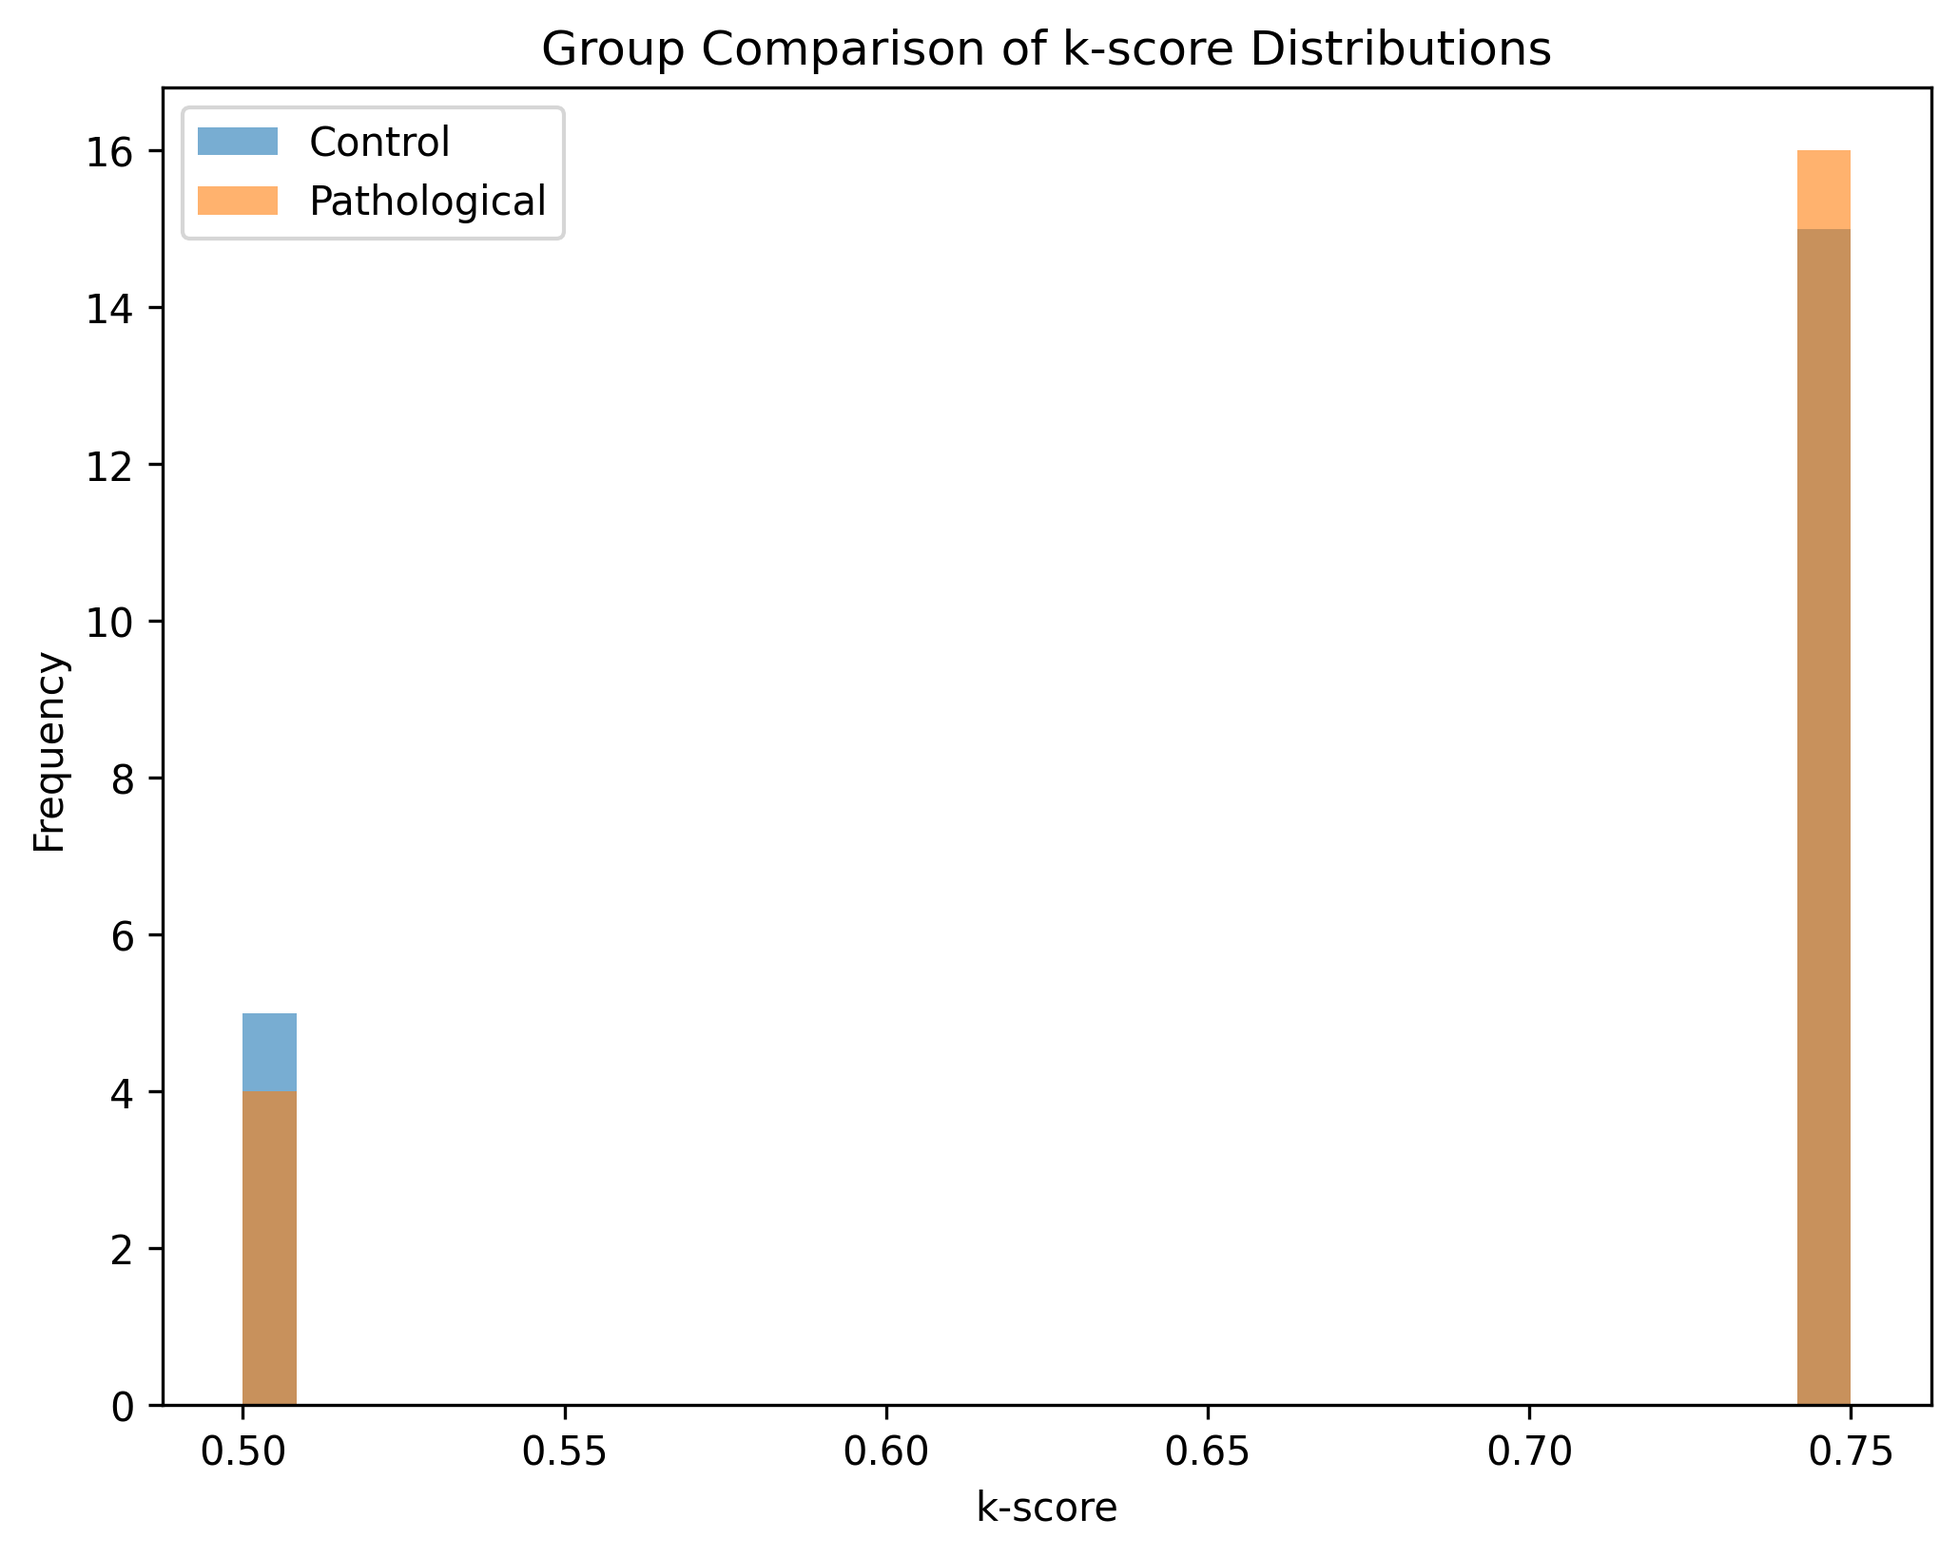
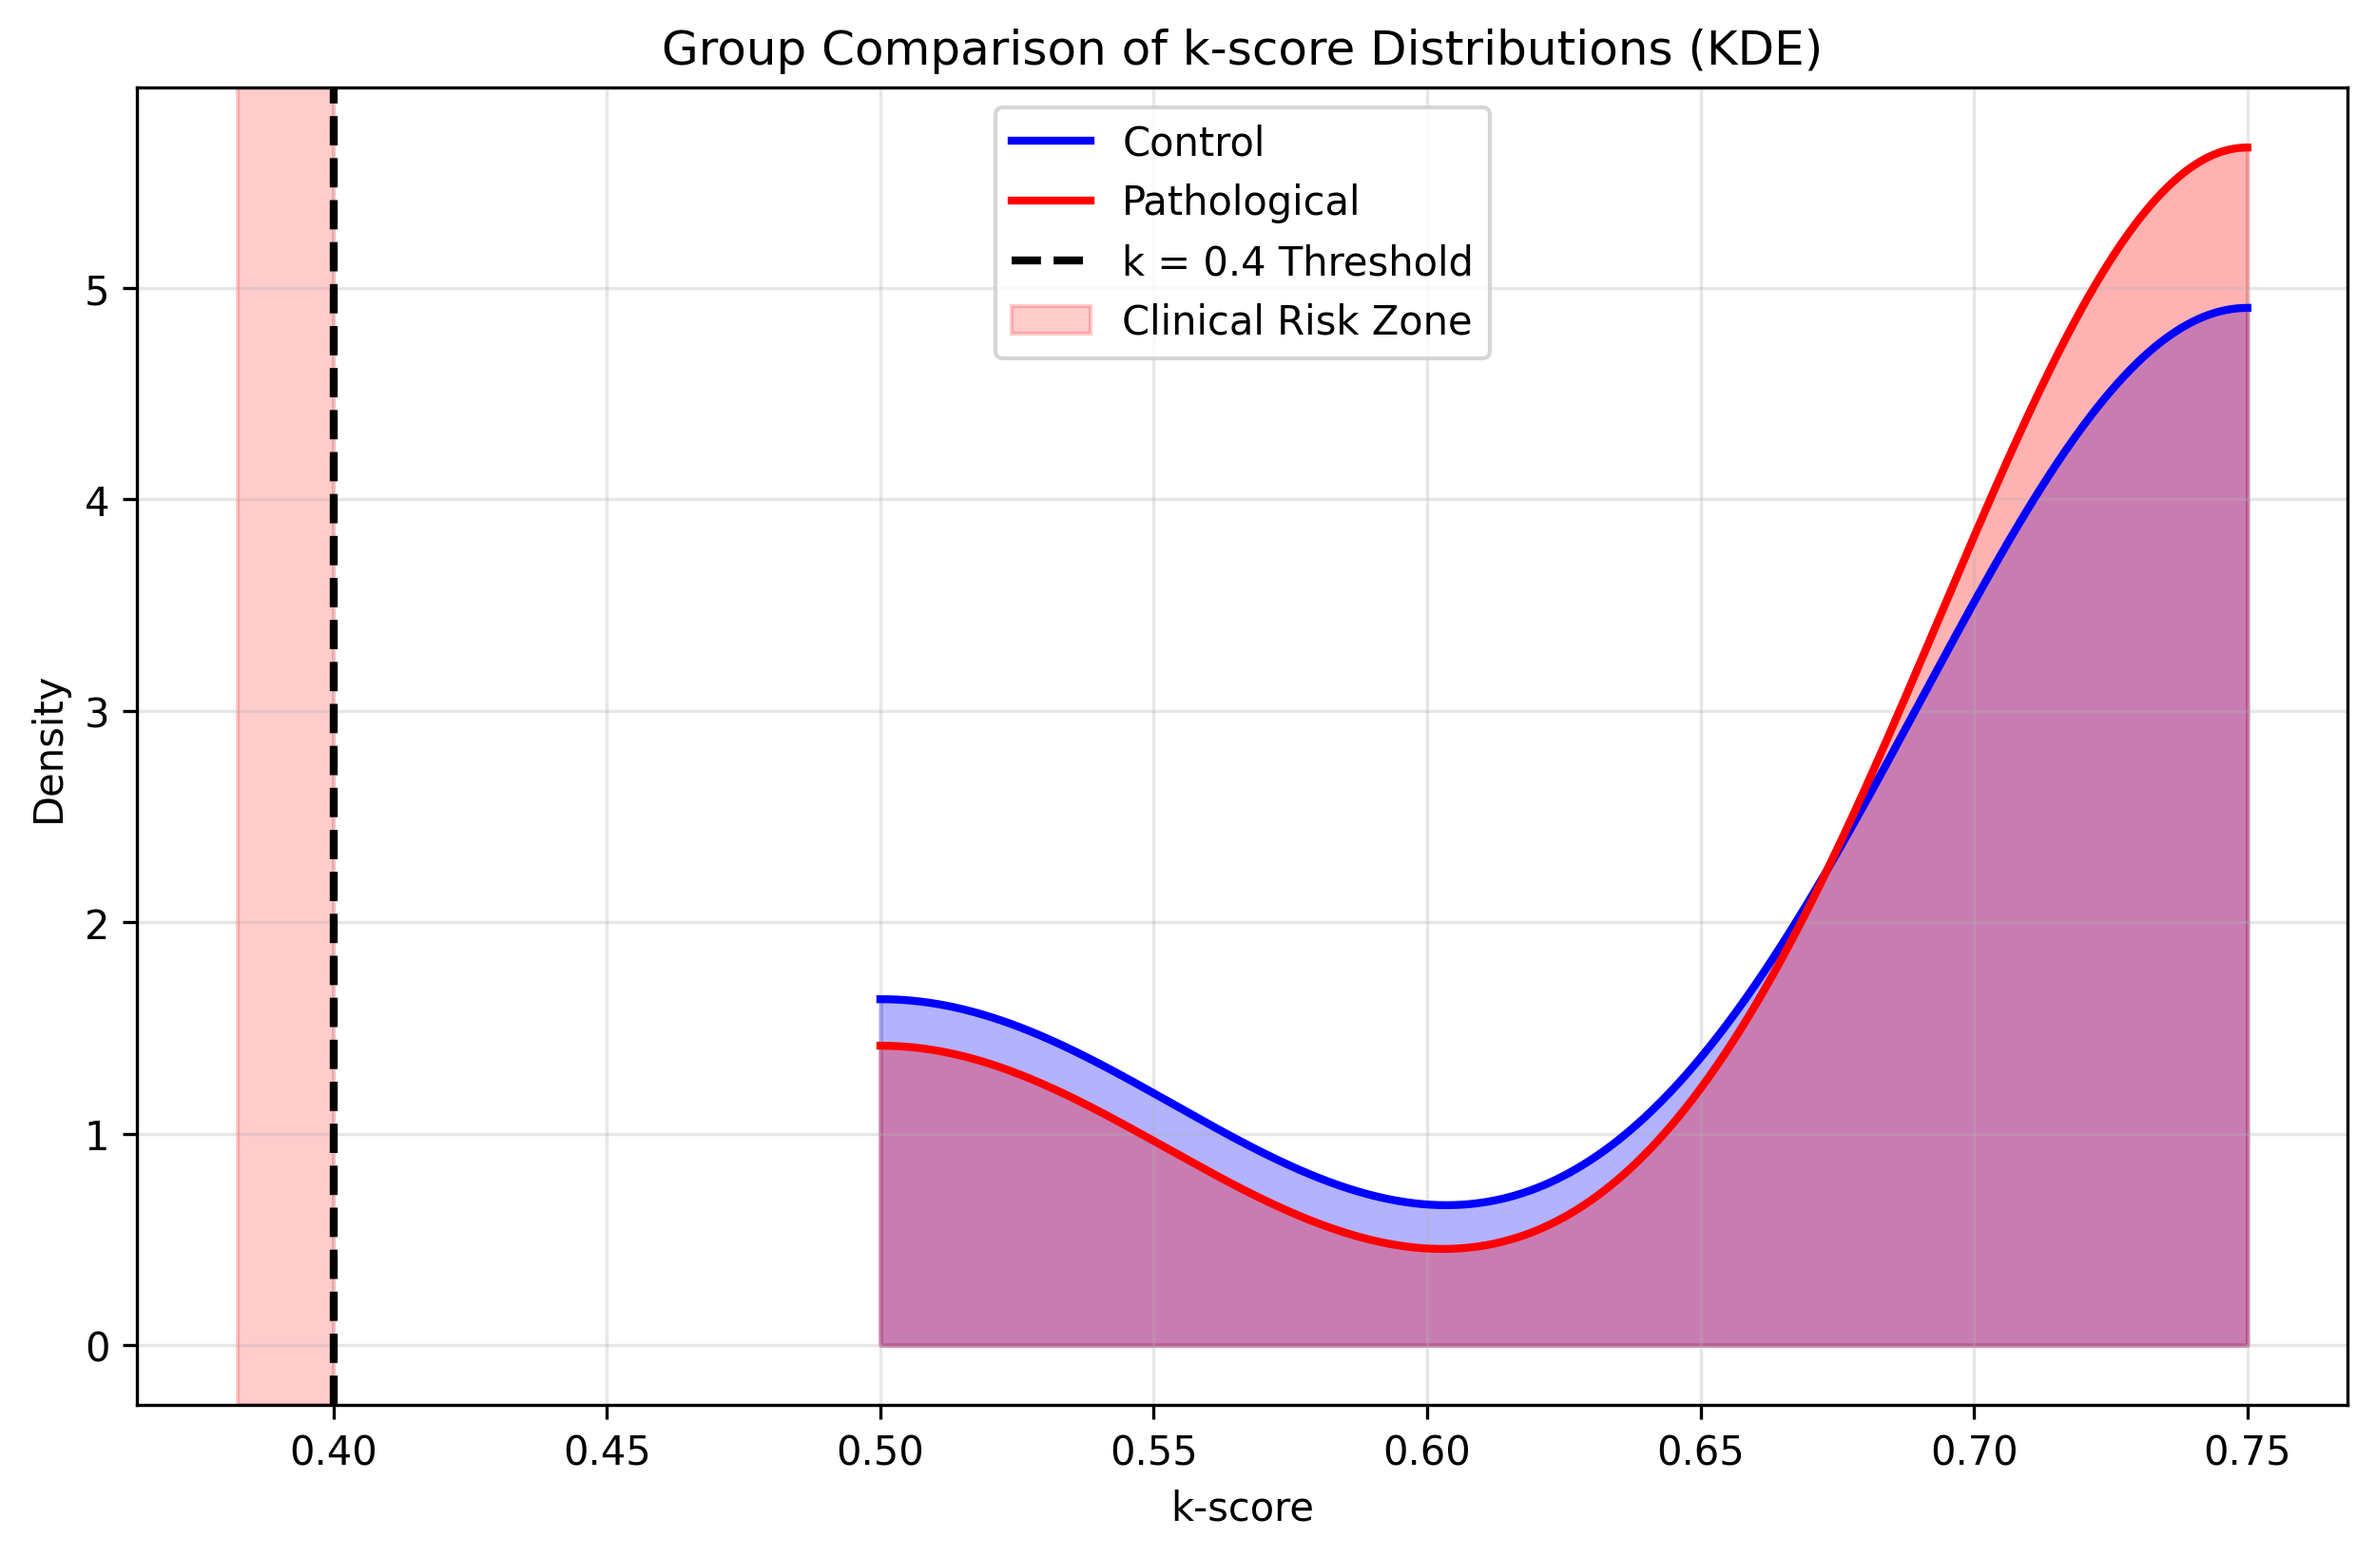
Refine GIFT Engine for better snap detection and visualization
- Lowered agent learning rate (lr_pA) from 0.1 to 0.01 in hrit_agent.py to reduce over-adaptation to pathological noise and increase 'Surprise' for unstable events
- Updated study_manager.py metrics: replaced Mean_K with Min_K (catches snap events) and Peak_Variance with 90th percentile of Variance (detects instability spikes)
- Enhanced group comparison plot: switched to KDE visualization with vertical threshold line at k=0.4 and shaded 'Clinical Risk Zone' below threshold
- Regenerated study results and plot with new metrics

diff --git a/GIFT_Engine/study_manager.py b/GIFT_Engine/study_manager.py
@@ -28,6 +28,7 @@ import numpy as np
 import pandas as pd
 import mne
 import matplotlib.pyplot as plt
+import scipy.stats as stats
 from scipy.stats import ttest_ind
 import logging
 import importlib
@@ -116,13 +117,10 @@ def run_single_file(filepath):
             metrics.variances.append(0.0)
 
     # compute summary numbers
-    # mean k after calibration (10s)
-    if len(metrics.ks) > BASELINE_DURATION:
-        mean_k = np.mean(metrics.ks[BASELINE_DURATION:])
-    else:
-        mean_k = np.mean(metrics.ks) if metrics.ks else np.nan
-
-    peak_variance = np.max(metrics.variances) if metrics.variances else 0.0
+    # Minimum k-score to catch 'Snap' events
+    min_k = np.min(metrics.ks) if metrics.ks else np.nan
+    # 90th percentile of variance to detect instability spikes
+    percentile_90_var = np.percentile(metrics.variances, 90) if metrics.variances else 0.0
     snap_count = classifier.snap_duration
     # learning delta: sum abs change in A
     initial_A = hrit_agent.A
@@ -137,8 +135,8 @@ def run_single_file(filepath):
         learning_delta = np.sum(np.abs(final_A - initial_A))
 
     return {
-        'mean_k': mean_k,
-        'peak_variance': peak_variance,
+        'min_k': min_k,
+        'percentile_90_var': percentile_90_var,
         'snap_count': snap_count,
         'learning_delta': learning_delta,
         'ks_distribution': metrics.ks,
@@ -160,8 +158,8 @@ def gather_group(directory, group_name):
         results.append({
             'group': group_name,
             'file': fname,
-            'mean_k': metrics['mean_k'],
-            'peak_variance': metrics['peak_variance'],
+            'min_k': metrics['min_k'],
+            'percentile_90_var': metrics['percentile_90_var'],
             'snap_count': metrics['snap_count'],
             'learning_delta': metrics['learning_delta'],
         })
@@ -178,27 +176,47 @@ def main():
     df.to_csv(csv_path, index=False)
     logging.info(f"Results written to {csv_path}")
 
-    # statistical comparison of mean_k
-    control_means = df[df.group == 'Control']['mean_k'].dropna()
-    path_means = df[df.group == 'Pathological']['mean_k'].dropna()
-    tstat, pval = ttest_ind(control_means, path_means, equal_var=False)
+    # statistical comparison of min_k
+    control_mins = df[df.group == 'Control']['min_k'].dropna()
+    path_mins = df[df.group == 'Pathological']['min_k'].dropna()
+    tstat, pval = ttest_ind(control_mins, path_mins, equal_var=False)
 
     print("\n===== RETROSPECTIVE STUDY SUMMARY =====\n")
-    print(df[['group', 'file', 'mean_k', 'peak_variance', 'snap_count', 'learning_delta']])
-    print(f"\np-value for Mean_K difference (Control vs Pathological): {pval:.4e}\n")
+    print(df[['group', 'file', 'min_k', 'percentile_90_var', 'snap_count', 'learning_delta']])
+    print(f"\np-value for Min_K difference (Control vs Pathological): {pval:.4e}\n")
 
-    # plot distributions
-    plt.figure(figsize=(8,6))
-    plt.hist(control_ks, bins=30, alpha=0.6, label='Control')
-    plt.hist(path_ks, bins=30, alpha=0.6, label='Pathological')
+    # plot distributions using KDE
+    plt.figure(figsize=(10,6))
+    
+    # KDE for Control
+    if control_ks:
+        kde_control = stats.gaussian_kde(control_ks)
+        x_control = np.linspace(min(control_ks), max(control_ks), 1000)
+        plt.plot(x_control, kde_control(x_control), label='Control', color='blue', linewidth=2)
+        plt.fill_between(x_control, kde_control(x_control), alpha=0.3, color='blue')
+    
+    # KDE for Pathological
+    if path_ks:
+        kde_path = stats.gaussian_kde(path_ks)
+        x_path = np.linspace(min(path_ks), max(path_ks), 1000)
+        plt.plot(x_path, kde_path(x_path), label='Pathological', color='red', linewidth=2)
+        plt.fill_between(x_path, kde_path(x_path), alpha=0.3, color='red')
+    
+    # Vertical line at k=0.4
+    plt.axvline(x=0.4, color='black', linestyle='--', linewidth=2, label='k = 0.4 Threshold')
+    
+    # Shade Clinical Risk Zone (below 0.4)
+    plt.axvspan(plt.xlim()[0], 0.4, alpha=0.2, color='red', label='Clinical Risk Zone')
+    
     plt.xlabel('k-score')
-    plt.ylabel('Frequency')
-    plt.title('Group Comparison of k-score Distributions')
+    plt.ylabel('Density')
+    plt.title('Group Comparison of k-score Distributions (KDE)')
     plt.legend()
+    plt.grid(alpha=0.3)
     plot_path = EXPORT_DIR / 'group_comparison_k_score.png'
     plt.savefig(plot_path, dpi=300, bbox_inches='tight')
     plt.close()
-    logging.info(f"Group comparison plot saved to {plot_path}")
+    logging.info(f"Group comparison KDE plot saved to {plot_path}")
 
 
 if __name__ == '__main__':

diff --git a/GIFT_Engine/hrit_agent.py b/GIFT_Engine/hrit_agent.py
@@ -22,7 +22,8 @@ B = utils.random_B_matrix(num_states, [1])
 B[0][:, :, 0] = np.eye(2)
 
 # --- STEP D: INITIALIZE THE AGENT ---
-my_hrit_agent = Agent(A=A, B=B, C=C)
+# Lower learning rate (lr_pA=0.01) increases 'Surprise' for unstable events, preventing over-adaptation to pathological noise
+my_hrit_agent = Agent(A=A, B=B, C=C, lr_pA=0.01)
 
 # --- NEW STEP: THE ENGINE INTERFACE ---
 # This is the 'Glue' that main_engine.py needs to work!
